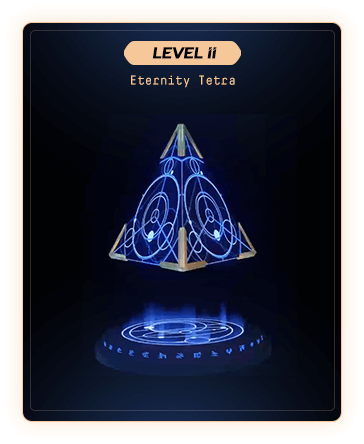
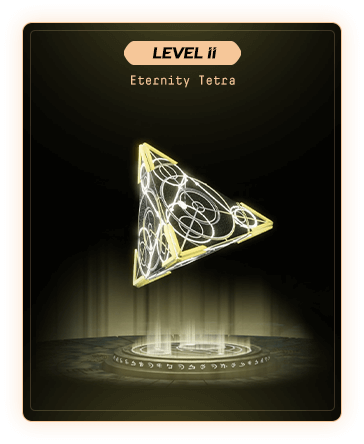
feat: replace privilege images.

diff --git a/src/pages/TetraNFT/components/TrifleScreen/index.tsx b/src/pages/TetraNFT/components/TrifleScreen/index.tsx
@@ -3,6 +3,8 @@ import PageDesc from '@/pages/components/common/PageDesc';
 import Image from 'next/image';
 import inactiveTrifleImg from 'img/nft/trifle/trifle_inactive.jpg';
 import activeTrifleImg1 from 'img/nft/trifle/trifle_active_1.jpg';
+import activeTrifleImg2 from 'img/nft/trifle/trifle_active_2.jpg';
+import activeTrifleImg3 from 'img/nft/trifle/trifle_active_3.jpg';
 import arrowImg from 'img/nft/trifle/arrow.png';
 import trifleBgImg1 from 'img/nft/trifle/trifle_bg_1.png';
 import trifleBgImg2 from 'img/nft/trifle/trifle_bg_2.png';
@@ -25,7 +27,7 @@ export default function TrifleScren() {
     {
       title: 'Eternity TETRA',
       label: 'Level II',
-      activeImg: activeTrifleImg1,
+      activeImg: activeTrifleImg2,
       bgImg: trifleBgImg2,
       bgStyle: { maxWidth: '103%', width: '103%', height: '103%' },
       videoSrc: '/video/ntf2.webm',
@@ -34,8 +36,7 @@ export default function TrifleScren() {
     {
       title: 'Infinity TETRA',
       label: 'Level III',
-      // TODO 替换三阶激活图片
-      activeImg: activeTrifleImg1,
+      activeImg: activeTrifleImg3,
       isActive: false,
     },
   ];
